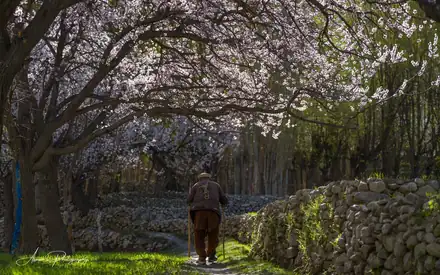
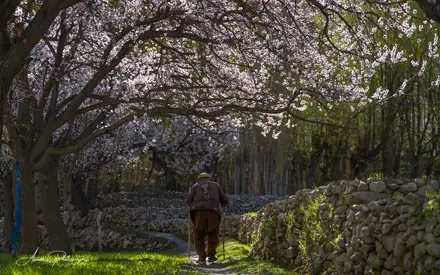
Rebuild the hero from the 2500px master instead of the web copy
The hero was built from gallery/passu-reflection.webp - a 1600px copy already
optimised for the old layout - and then re-encoded at quality 58. Measured
against the master downscaled to the same width, that copy had 25% less edge
detail before I touched it. On a 1440@2x display it was then upscaled 1.8x.

Now sourced from _originals/gallery (2500x1750) and served as a srcset at
1280/1920/2500 so the browser picks a width rather than stretching one.
Ridgeline detail as painted at 2x: +36%. All ten slider frames likewise come
from the masters now.

diff --git a/preview.html b/preview.html
@@ -262,7 +262,9 @@ a{color:inherit; text-decoration:none}
 </style>
 
 <header class="hero">
-  <img class="hero-img" src="/preview-img/hero.webp" alt="Alpenglow on the Karakoram peaks, reflected in still water at dawn" fetchpriority="high">
+  <img class="hero-img" src="/preview-img/hero-1920.webp"
+       srcset="/preview-img/hero-1280.webp 1280w, /preview-img/hero-1920.webp 1920w, /preview-img/hero-2500.webp 2500w"
+       sizes="100vw" alt="Alpenglow on the Karakoram peaks, reflected in still water at dawn" fetchpriority="high" decoding="async">
   <img class="hero-img portrait" src="/preview-img/hero-portrait.webp" alt="" aria-hidden="true">
   <div class="hero-scrim" aria-hidden="true"></div>
 
